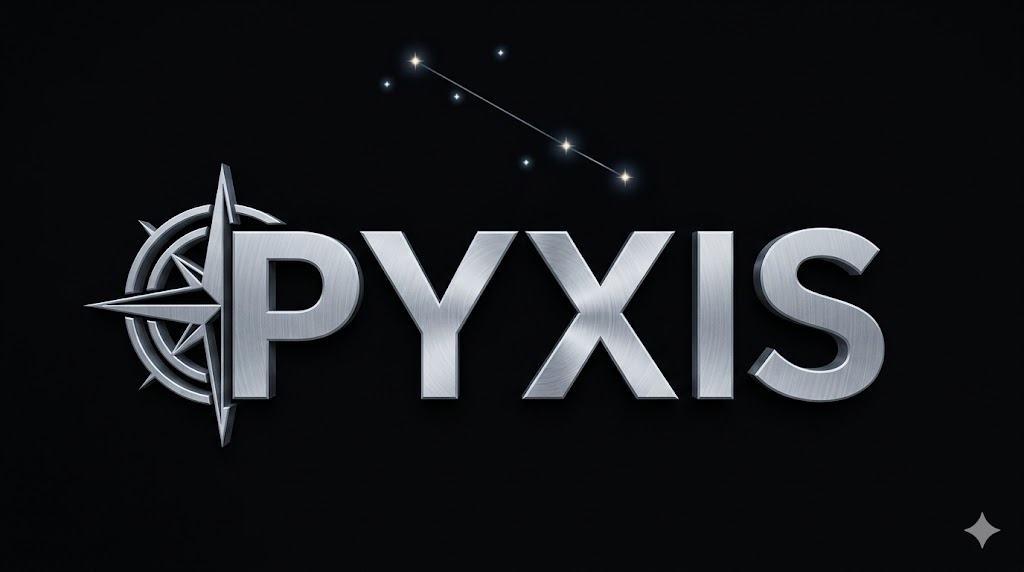
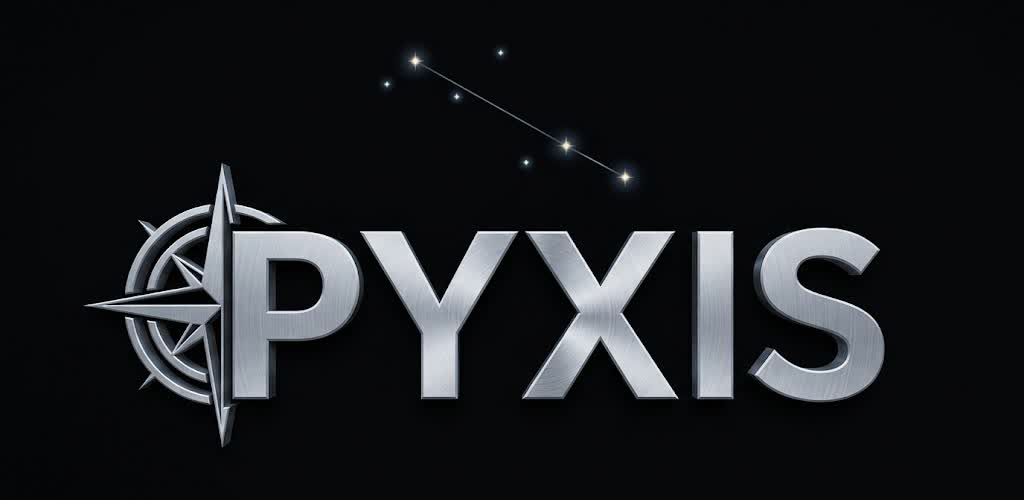
feat: add hero image to README, crop Gemini watermark

diff --git a/README.md b/README.md
@@ -1,5 +1,7 @@
 # Pyxis
 
+![Pyxis](public/title.jpeg)
+
 **Semantic router built on real embeddings + hybrid BM25/vector search.**
 
 Named after *Pyxis* — the mariner's compass constellation. Navigate your docs, rules, and commands by meaning, not keywords.